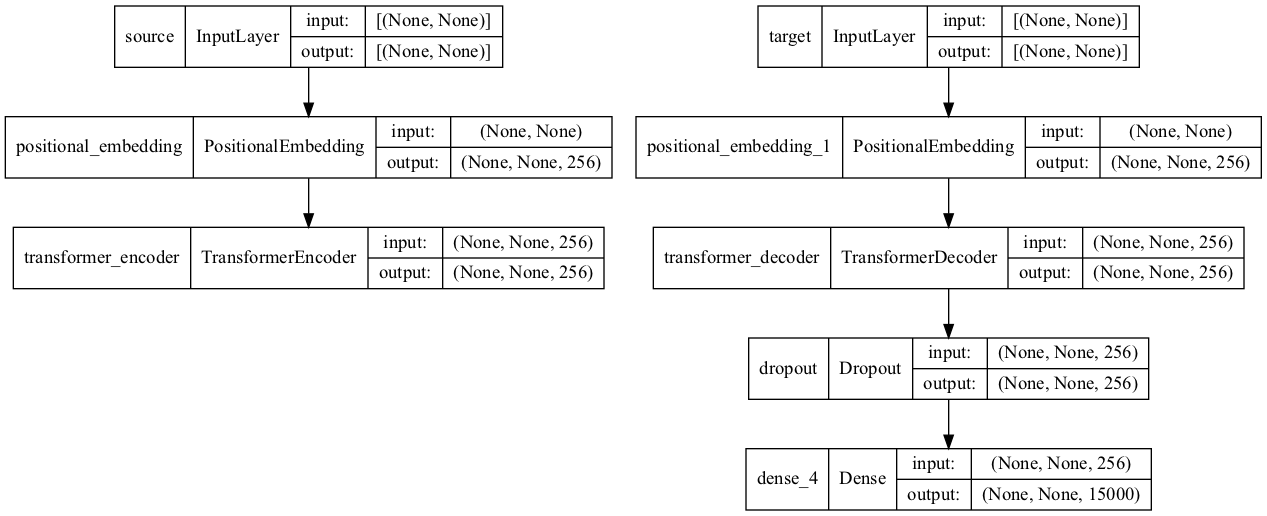
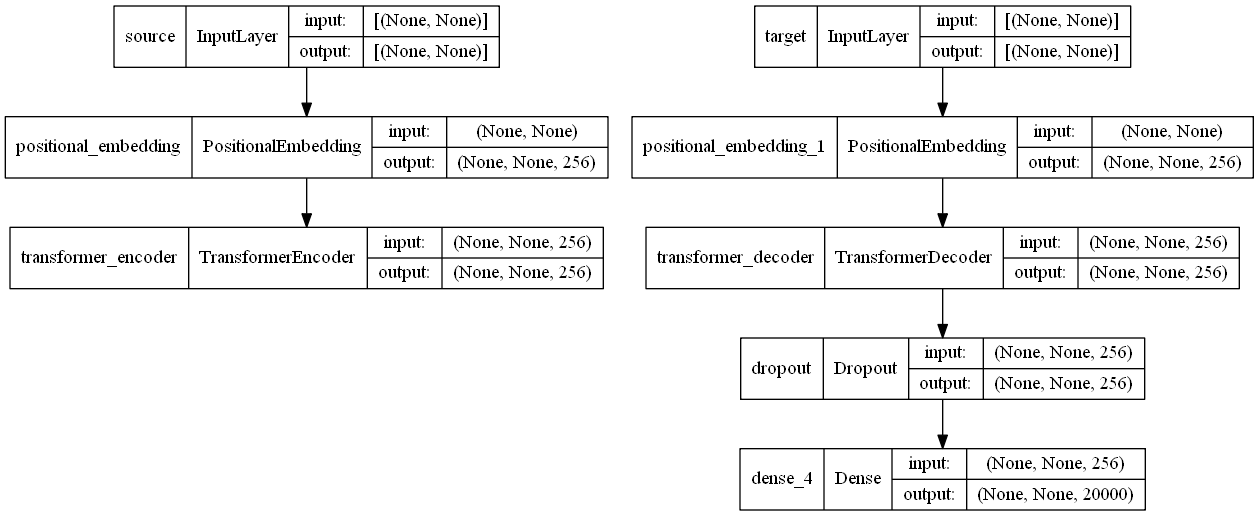
transformer

diff --git a/src/16. Transformer/my_sent_tokenizer.py b/src/16. Transformer/my_sent_tokenizer.py
@@ -3,31 +3,21 @@ import pandas as pd
 import tensorflow as tf
 import tensorflow_datasets as tfds
 import string, re, random
+import tokenizers
 
 from tensorflow import keras
-from tensorflow.keras import Input, Model, Sequential
 from tensorflow.keras.layers import (
-    Layer,
     TextVectorization,
-    Dropout,
-    Dense,
-    Embedding,
-    MultiHeadAttention,
-    LayerNormalization,
 )
-from tensorflow.keras.utils import plot_model
-from konlpy.tag import Okt
+from konlpy.tag import Okt, Mecab
+from tokenizers import Tokenizer
+from tokenizers.models import BPE
+from transformers import BertTokenizer, TFBertModel
 from tqdm import tqdm
 
-
-def normalize_ko_sentence(data):
-    sentences = []
-    for sentence in data:
-        sentence = re.sub(r"([?.!,])", r" \1 ", sentence)
-        sentence = sentence.strip()
-        sentences.append(sentence)
-    return sentences
-
+okt = Okt()
+mecab = Mecab(dicpath="C:/mecab/mecab-ko-dic")
+tokenizer = BertTokenizer.from_pretrained("klue/bert-base")
 
 # fmt: off
 stopwords = [
@@ -36,11 +26,20 @@ stopwords = [
 # fmt: on
 
 
-def morphs_text(okt, data):
+def morphs_text_okt(data):
     sentences = []
-    for sent in data:
-        sentence = str(okt.morphs(sent, stem=False))
-        sentence = sentence.strip()
+    for sent in tqdm(data):
+        sentence = okt.morphs(sent, stem=False)
+        sentence = " ".join(sentence)
+        sentences.append(sentence)
+    return sentences
+
+
+def morphs_text_mecab(data):
+    sentences = []
+    for sent in tqdm(data):
+        sentence = mecab.morphs(sent)
+        sentence = " ".join(sentence)
         sentences.append(sentence)
     return sentences
 
@@ -58,16 +57,14 @@ def text_vectorization(max_len, vocab_size, batch_size):
     train_data = pd.read_csv("../data/ChatBotData.csv")
     print(f"chatbot samples: {len(train_data):,}")
 
-    okt = Okt()
-    # test = ["2시에 학교에 가면 좋을 것 같다."]
-    # questions = morphs_text(okt, test)
-    questions = morphs_text(okt, train_data["Q"][:100])
-    answers = morphs_text(okt, train_data["A"][:100])
-    # questions = normalize_sentence(questions)
-    # answers = normalize_sentence(answers)
-
     # questions = normalize_sentence(train_data["Q"])
     # answers = normalize_sentence(train_data["A"])
+
+    # questions = morphs_text_okt(train_data["Q"])
+    # answers = morphs_text_okt(train_data["A"])
+
+    questions = morphs_text_mecab(train_data["Q"])
+    answers = morphs_text_mecab(train_data["A"])
 
     text_pairs = []
     for question, answer in zip(questions, answers):
@@ -75,91 +72,117 @@ def text_vectorization(max_len, vocab_size, batch_size):
         text_pairs.append((question, answer))
     print(random.choice(text_pairs))
 
-    # random.shuffle(text_pairs)
-    # num_val_samples = int(0.15 * len(text_pairs))
-    # num_train_samples = len(text_pairs) - 2 * num_val_samples
-    # train_pairs = text_pairs[:num_train_samples]
-    # valid_pairs = text_pairs[num_train_samples : num_train_samples + num_val_samples]
-    # test_pairs = text_pairs[num_train_samples + num_val_samples :]
-    #
-    # strip_chars = string.punctuation
-    # strip_chars = strip_chars.replace("[", "")
-    # strip_chars = strip_chars.replace("]", "")
-    # print(strip_chars)
-    # print(f"[{re.escape(strip_chars)}]")
-    #
-    # def custom_standardization(input_string):
-    #     # lowercase = tf.strings.lower(input_string)
-    #     lowercase = input_string
-    #     return tf.strings.regex_replace(lowercase, f"[{re.escape(strip_chars)}]", "")
-    #
-    # source_vectorization = TextVectorization(
-    #     max_tokens=vocab_size, output_mode="int", output_sequence_length=max_len
-    # )
-    # target_vectorization = TextVectorization(
-    #     max_tokens=vocab_size,
-    #     output_mode="int",
-    #     output_sequence_length=max_len + 1,
-    #     standardize=custom_standardization,
-    # )
-    #
-    # questions, answers = zip(*train_pairs)
-    # source_vectorization.adapt(questions)
+    random.shuffle(text_pairs)
+    num_val_samples = int(0.15 * len(text_pairs))
+    num_train_samples = len(text_pairs) - 2 * num_val_samples
+    train_pairs = text_pairs[:num_train_samples]
+    valid_pairs = text_pairs[num_train_samples : num_train_samples + num_val_samples]
+    test_pairs = text_pairs[num_train_samples + num_val_samples :]
 
+    strip_chars = string.punctuation
+    strip_chars = strip_chars.replace("[", "")
+    strip_chars = strip_chars.replace("]", "")
+    print(strip_chars)
+    print(f"[{re.escape(strip_chars)}]")
 
-#     target_vectorization.adapt(answers)
-#     source_vocab = source_vectorization.get_vocabulary()
-#     src_idx_to_word = dict(zip(range(len(source_vocab)), source_vocab))
-#     src_word_to_idx = dict(zip(source_vocab, range(len(source_vocab))))
-#     target_vocab = target_vectorization.get_vocabulary()
-#     tar_idx_to_word = dict(zip(range(len(target_vocab)), target_vocab))
-#     tar_word_to_idx = dict(zip(target_vocab, range(len(target_vocab))))
-#
-#     def format_dataset(source, target):
-#         source = source_vectorization(source)
-#         target = target_vectorization(target)
-#         return (
-#             {
-#                 "source": source,
-#                 "target": target[:, :-1],
-#             },
-#             target[:, 1:],
-#         )
-#
-#     def make_dataset(pairs):
-#         sources, targets = zip(*pairs)
-#         sources = list(sources)
-#         targets = list(targets)
-#         dataset = tf.data.Dataset.from_tensor_slices((sources, targets)).batch(batch_size)
-#         dataset = dataset.map(format_dataset, num_parallel_calls=4)
-#         return dataset.shuffle(2048).prefetch(16)
-#
-#     train_ds = make_dataset(train_pairs)
-#     valid_ds = make_dataset(valid_pairs)
-#
-#     for sources, targets in train_ds.take(1):
-#         print(f"sources['source'].shape: {sources['source'].shape}")
-#         print(f"sources['target'].shape: {sources['target'].shape}")
-#         print(f"targets.shape: {targets.shape}")
-#
-#         encoded_sent = sources["target"][0].numpy()
-#         decoded_sent = [tar_idx_to_word[idx] for idx in encoded_sent]
-#         print(encoded_sent)
-#         print(decoded_sent)
-#
-#     for i in range(10):
-#         print(tar_idx_to_word[i])
-#
-#     return (
-#         train_ds,
-#         valid_ds,
-#         tar_idx_to_word,
-#         tar_word_to_idx,
-#         test_pairs,
-#         source_vectorization,
-#         target_vectorization,
-#     )
+    def custom_standardization(input_string):
+        lowercase = tf.strings.lower(input_string)
+        return tf.strings.regex_replace(lowercase, f"[{re.escape(strip_chars)}]", "")
+
+    source_vectorization = TextVectorization(
+        max_tokens=vocab_size, output_mode="int", output_sequence_length=max_len
+    )
+
+    target_vectorization = TextVectorization(
+        max_tokens=vocab_size,
+        output_mode="int",
+        output_sequence_length=max_len + 1,
+        standardize=custom_standardization,
+    )
+
+    questions, answers = zip(*train_pairs)
+    source_vectorization.adapt(questions + answers)
+    target_vectorization.adapt(questions + answers)
+    source_vocab = source_vectorization.get_vocabulary()
+    src_idx_to_word = dict(zip(range(len(source_vocab)), source_vocab))
+    src_word_to_idx = dict(zip(source_vocab, range(len(source_vocab))))
+    target_vocab = target_vectorization.get_vocabulary()
+    tar_idx_to_word = dict(zip(range(len(target_vocab)), target_vocab))
+    tar_word_to_idx = dict(zip(target_vocab, range(len(target_vocab))))
+
+    def format_dataset(source, target):
+        source = source_vectorization(source)
+        target = target_vectorization(target)
+        return (
+            {
+                "source": source,
+                "target": target[:, :-1],
+            },
+            target[:, 1:],
+        )
+
+    def make_dataset(pairs):
+        sources, targets = zip(*pairs)
+        sources = list(sources)
+        targets = list(targets)
+        dataset = tf.data.Dataset.from_tensor_slices((sources, targets)).batch(batch_size)
+        dataset = dataset.map(format_dataset, num_parallel_calls=4)
+        return dataset.shuffle(2048).prefetch(16)
+
+    train_ds = make_dataset(train_pairs)
+    valid_ds = make_dataset(valid_pairs)
+
+    for sources, targets in train_ds.take(1):
+        print(f"sources['source'].shape: {sources['source'].shape}")
+        print(f"sources['target'].shape: {sources['target'].shape}")
+        print(f"targets.shape: {targets.shape}")
+
+        encoded_sent = sources["target"][0].numpy()
+        decoded_sent = [tar_idx_to_word[idx] for idx in encoded_sent]
+        print(encoded_sent)
+        print(decoded_sent)
+
+    print(f"source vocabulary : {len(source_vocab)}")
+    print(f"target vocabulary : {len(target_vocab)}")
+    for i in range(10):
+        print(tar_idx_to_word[i], end=" ")
+
+    return (
+        train_ds,
+        valid_ds,
+        tar_idx_to_word,
+        tar_word_to_idx,
+        test_pairs,
+        source_vectorization,
+        target_vectorization,
+    )
 
 
 if __name__ == "__main__":
-    text_vectorization(max_len=20, vocab_size=15000, batch_size=128)
+    # text_vectorization(max_len=20, vocab_size=15000, batch_size=128)
+
+    train_data = pd.read_csv("../data/ChatBotData.csv")
+    print(f"chatbot samples: {len(train_data):,}")
+
+    with open("../data/chatbot_questions.txt", "w", encoding="utf8") as f:
+        f.write("\n".join(train_data["Q"]))
+
+    print(tokenizer.encode("보는내내 그대로 들어맞는 예측 카리스마 없는 악역"))
+    print(tokenizer.tokenize("보는내내 그대로 들어맞는 예측 카리스마 없는 악역"))
+    print(tokenizer.decode(tokenizer.encode("보는내내 그대로 들어맞는 예측 카리스마 없는 악역")))
+
+    from tokenizers import (
+        ByteLevelBPETokenizer,
+        CharBPETokenizer,
+        SentencePieceBPETokenizer,
+        BertWordPieceTokenizer,
+    )
+
+    bert_wordpiece_tokenizer = BertWordPieceTokenizer(lowercase=True, strip_accents=True)
+    tokenizer.train(
+        files="../data/chatbot_questions.txt",
+        vocab_size=30000,
+        limit_alphabet=6000,
+        min_frequency=5,
+    )
+    tokenizer.save_model("../data/bert_tokenizer")

diff --git a/src/16. Transformer/16-3. my_transformer_bot.py b/src/16. Transformer/16-3. my_transformer_bot.py
@@ -1,6 +1,7 @@
 import numpy as np
 import tensorflow as tf
-import re, random
+import random
+
 from tensorflow import keras
 from tensorflow.keras import Input, Model
 from tensorflow.keras.layers import Dropout, Dense
@@ -11,12 +12,12 @@ from my_sent_tokenizer import text_vectorization
 
 
 max_len = 20
-vocab_size = 15000
+vocab_size = 20000
 embed_dim = 256
 num_heads = 8
 dense_dim = 1024
 
-epochs = 1
+epochs = 50
 batch_size = 128
 buffer_size = 20000
 
@@ -43,12 +44,14 @@ transformer = Model(inputs=[encoder_inputs, decoder_inputs], outputs=decoder_out
 plot_model(transformer, "images/my_transformer_bot.png", show_shapes=True)
 transformer.summary()
 
+
+optimizer = tf.keras.optimizers.Adam(learning_rate=0.001, beta_1=0.9, beta_2=0.98, epsilon=1e-9)
 transformer.compile(
-    optimizer="rmsprop", loss="sparse_categorical_crossentropy", metrics=["accuracy"]
+    optimizer=optimizer, loss="sparse_categorical_crossentropy", metrics=["accuracy"]
 )
 
 callbacks = [keras.callbacks.ModelCheckpoint("../data/my_transformer_bot.keras")]
-# transformer.fit(train_ds, epochs=epochs, validation_data=valid_ds, callbacks=callbacks)
+transformer.fit(train_ds, epochs=epochs, validation_data=valid_ds, callbacks=callbacks)
 
 transformer = keras.models.load_model(
     "../data/my_transformer_bot.keras",
@@ -75,9 +78,9 @@ def decode_sequence(input_sentence):
 
 
 test_texts = [(pair[0], pair[1]) for pair in test_pairs]
-for _ in range(1):
+for _ in range(10):
     input_sentence = random.choice(test_texts)
     print("-" * 90)
     print(input_sentence[0])
+    print(input_sentence[1])
     print(decode_sequence(input_sentence[0]))
-    print(decode_sequence(input_sentence[1]))

diff --git a/src/16. Transformer/16-0. tokenizer_ex.py b/src/16. Transformer/16-0. tokenizer_ex.py
@@ -21,7 +21,7 @@ from tensorflow.keras.utils import plot_model
 def tfds_text_encoder(questions, answers):
     # 서브워드텍스트인코더를 사용하여 질문과 답변을 모두 포함한 단어 집합(Vocabulary) 생성
     tokenizer = tfds.deprecated.text.SubwordTextEncoder.build_from_corpus(
-        questions + answers, target_vocab_size=2 ** 13
+        questions + answers, target_vocab_size=2**13
     )
 
     # 시작 토큰과 종료 토큰에 대한 정수 부여.
